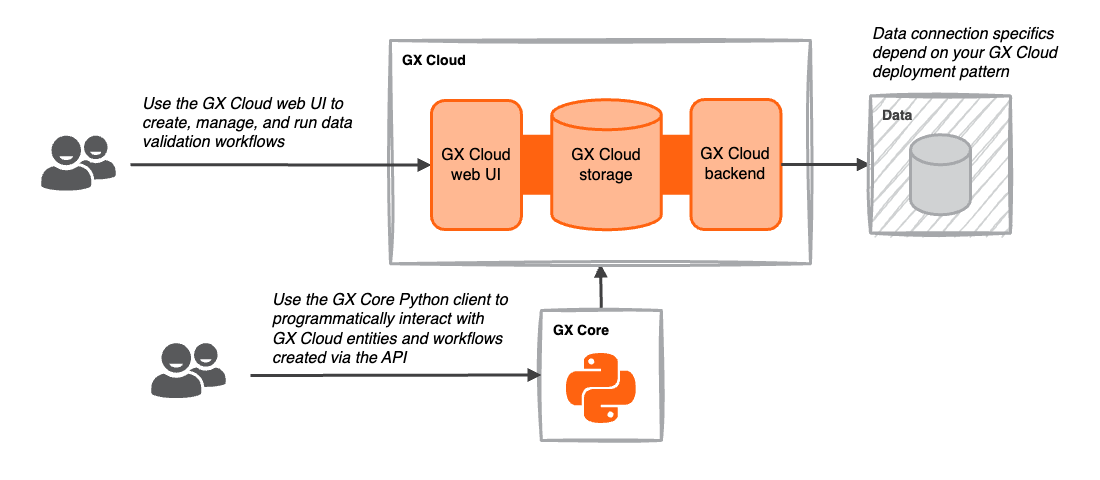
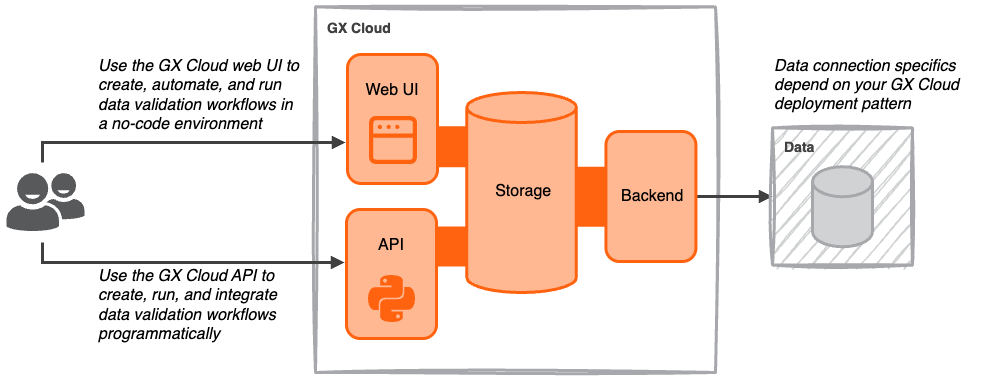
[DOCS] Revise use of the term "API" (#11196)

Pull request: [DOCS] Revise use of the term "API"
Resolves https://greatexpectations.atlassian.net/browse/DOC-1133 according to the guidance linked in that issue

- [X] Description of PR changes above includes a link to [an existing GitHub issue](https://github.com/great-expectations/great_expectations/issues)
- [X] PR title is prefixed with one of: [BUGFIX], [FEATURE], [DOCS], [MAINTENANCE], [CONTRIB], [MINORBUMP]
- [ ] Code is linted - run `invoke lint` (uses `ruff format` + `ruff check`)
- [X] Appropriate tests and docs have been updated

For more information about contributing, visit our [community resources](https://docs.greatexpectations.io/docs/core/introduction/community_resources#contribute-code-or-documentation).

After you submit your PR, keep the page open and **monitor the statuses of the various checks made by our continuous integration process at the bottom of the page. Please fix any issues that come up** and [reach out on Slack](https://greatexpectations.io/slack) if you need help. Thanks for contributing!

diff --git a/docs/docusaurus/docs/cloud/expectations/manage_expectations.md b/docs/docusaurus/docs/cloud/expectations/manage_expectations.md
@@ -235,22 +235,22 @@ If your Data Asset has at least one DATE or DATETIME column, you can define a Ba
 ## GX-managed vs. API-managed Expectations
 
 In GX Cloud, Expectations can be GX-managed or API-managed.
-- GX-managed Expectations are created through the GX Cloud UI.
-- API-managed Expectations are created with the API in a GX Cloud Data Context.
+- GX-managed Expectations are created using the GX Cloud UI.
+- API-managed Expectations are created using the GX Cloud API.
 
-If you have both kinds of Expectations, they will be organized in separate tables on the **Expectations** tab as they have different capabilities in the Cloud UI. 
+If you have both kinds of Expectations, they will be organized in separate tables on the **Expectations** tab as they have different capabilities in the GX Cloud UI. 
 
 Here is a comparison of key characteristics of GX-managed and API-managed Expectations. 
 
 | Characteristic     | GX-managed Expectation                                                                                                                                                                              | API-managed Expectation                                                                                                                                                                                                                                                                                                     |
 |--------------------|-----------------------------------------------------------------------------------------------------------------------------------------------------------------------------------------------------|-----------------------------------------------------------------------------------------------------------------------------------------------------------------------------------------------------------------------------------------------------------------------------------------------------------------------------|
-| Edit               | [Edit parameters](/cloud/expectations/manage_expectations.md#edit-an-expectation) with the GX Cloud UI                                                                                              | [Edit parameters with the API](/reference/api/expectations/Expectation_class.mdx) or the GX Cloud UI                                                                                                                                                                                                                        |
-| Batch              | [Define a Batch](/cloud/expectations/manage_expectations.md#optional-define-a-batch) in the Cloud UI                                                                                                | Define a Batch with the API when connecting to [SQL](/core/connect_to_data/sql_data/sql_data.md#create-a-batch-definition), [filesystem](/core/connect_to_data/filesystem_data/filesystem_data.md#create-a-batch-definition), or [dataframe](/core/connect_to_data/dataframes/dataframes.md#create-a-batch-definition) data |
-| Validate           | [Run a Validation](/docs/cloud/validations/manage_validations.md#run-a-validation) through the Cloud UI or [run a Checkpoint](/core/trigger_actions_based_on_results/run_a_checkpoint.md) with the API | [Create a Validation Definition and run it](/core/run_validations/run_validations.md) with the API                                                                                                                                                                                                                          |
-| Validation Results | [Access results in the Validations tab](/cloud/validations/manage_validations.md#view-validation-run-history) of the Cloud UI                                                                       | [Access results with the API](/core/trigger_actions_based_on_results/choose_a_result_format/choose_a_result_format.md) or in the Validations tab of the Cloud UI                                                                                                                                                            |
-| Schedule           | Keep default schedule or [edit schedule](/cloud/schedules/manage_schedules.md) in the Cloud UI                                                                                                      | Not supported, use an [orchestrator](/cloud/connect/connect_airflow.md) to control recurring validations                                                                                                                                                                                                                    |
-| Expectation Suite  | Automatically organized in a hidden default Expectation Suite                                                                                                                                       | Manually grouped into [custom Expectation Suites](/core/define_expectations/organize_expectation_suites.md) via the API                                                                                                                                                                                                     |
-| Delete             | [Delete Expectation](/docs/cloud/expectations/manage_expectations/#delete-an-expectation) with the Cloud UI                                                                                         | [Delete Expectation with the API](/reference/api/ExpectationSuite_class.mdx#great_expectations.ExpectationSuite.delete_expectation) or the Cloud UI                                                                                                                                                                         |
+| Edit               | [Edit parameters](/cloud/expectations/manage_expectations.md#edit-an-expectation) with the GX Cloud UI                                                                                              | [Edit parameters with the GX Cloud API](/reference/api/expectations/Expectation_class.mdx) or the GX Cloud UI                                                                                                                                                                                                                        |
+| Batch              | [Define a Batch](/cloud/expectations/manage_expectations.md#optional-define-a-batch) in the GX Cloud UI                                                                                                | Define a Batch with the GX Cloud API when connecting to [SQL](/core/connect_to_data/sql_data/sql_data.md#create-a-batch-definition), [filesystem](/core/connect_to_data/filesystem_data/filesystem_data.md#create-a-batch-definition), or [dataframe](/core/connect_to_data/dataframes/dataframes.md#create-a-batch-definition) data |
+| Validate           | [Run a Validation](/docs/cloud/validations/manage_validations.md#run-a-validation) using the GX Cloud UI or [run a Checkpoint](/core/trigger_actions_based_on_results/run_a_checkpoint.md) with the GX Cloud API | [Create a Validation Definition and run it](/core/run_validations/run_validations.md) with the GX Cloud API                                                                                                                                                                                                                          |
+| Validation Results | [Access results in the Validations tab](/cloud/validations/manage_validations.md#view-validation-run-history) of the GX Cloud UI                                                                       | [Access results with the GX Cloud API](/core/trigger_actions_based_on_results/choose_a_result_format/choose_a_result_format.md) or in the Validations tab of the GX Cloud UI                                                                                                                                                            |
+| Schedule           | Keep default schedule or [edit schedule](/cloud/schedules/manage_schedules.md) in the GX Cloud UI                                                                                                      | Not supported, use an [orchestrator](/cloud/connect/connect_airflow.md) to control recurring validations                                                                                                                                                                                                                    |
+| Expectation Suite  | Automatically organized in a hidden default Expectation Suite                                                                                                                                       | Manually grouped into [custom Expectation Suites](/core/define_expectations/organize_expectation_suites.md) via the GX Cloud API                                                                                                                                                                                                     |
+| Delete             | [Delete Expectation](/docs/cloud/expectations/manage_expectations/#delete-an-expectation) with the GX Cloud UI                                                                                         | [Delete Expectation with the GX Cloud API](/reference/api/ExpectationSuite_class.mdx#great_expectations.ExpectationSuite.delete_expectation) or the GX Cloud UI                                                                                                                                                                         |
 
 :::note Hidden resources for GX-managed Expectations
 To support GX-managed Expectations, we create resources that you typically won't directly interact with. For example, we create a GX-managed Expectation Suite that we use to organize your Expectations. For some workflows you may need to work with these hidden resources, for example, you may need to [find the name of an automatically created Checkpoint](/cloud/connect/connect_airflow.md#create-a-dag-file-for-your-gx-cloud-checkpoint). But, typically you can ignore the existence of these hidden resources. 

diff --git a/docs/docusaurus/docs/cloud/overview/gx_cloud_overview.md b/docs/docusaurus/docs/cloud/overview/gx_cloud_overview.md
@@ -58,9 +58,9 @@ There are a variety of GX Cloud features that support additional enhancements to
 
 ## GX Cloud architecture
 
-GX Cloud architecture comprises a frontend web UI, storage for entity configuration and metadata, a backend application, and a Python client.
+GX Cloud architecture comprises a frontend web UI, storage for entity configuration and metadata, a backend application, and a Python API.
 
-![GX Cloud architecture](./overview_images/gx_cloud_architecture.png)
+![You interact using the UI, API, or both. How GX Cloud connects to your data depends on your deployment pattern.](./overview_images/gx_cloud_architecture.png)
 
 * **GX Cloud frontend web UI**. Enables you to manage and validate your organization's data quality without running code and provides shared visibility into your organization's Validation Results history.
 
@@ -68,4 +68,4 @@ GX Cloud architecture comprises a frontend web UI, storage for entity configurat
 
 * **GX Cloud backend application**. Contains the necessary logic and compute to connect to data and run queries. The specifics of how the GX Cloud backend connects to your data is described in [Deployment patterns](/cloud/deploy/deployment_patterns.md).
 
-* **GX Core Python client**. Enables you to interact programmatically with GX Cloud entities and workflows created via the API. The [GX Core Python client](/core/introduction/introduction.mdx) can complement and extend your web UI-created workflows.
+* **GX Cloud API**. Enables you to [interact programmatically](/reference/index.md) with GX Cloud entities and workflows using Python scripts. 

diff --git a/README.md b/README.md
@@ -57,10 +57,10 @@ They are listed in the order in which GX is prioritizing the support issues:
 ## Contribute
 We deeply value the contributions of our community. We're now accepting PRs for bug fixes.
 
-To ensure the long-term quality of the GX Core codebase, we're not yet ready to accept feature contributions to the parts of the codebase that don't have clear APIs for extensions. We're actively working to increase the surface area for contributions. Thank you for being a crucial part of GX Core!
+To ensure the long-term quality of the GX Core codebase, we're not yet ready to accept feature contributions to the parts of the codebase that don't have clear interfaces for extensions. We're actively working to increase the surface area for contributions. Thank you for being a crucial part of GX Core!
 
 ### Levels of contribution readiness
-🟢 Ready. Have a clear and public API for extensions.
+🟢 Ready. Have a clear and public interface for extensions.
 
 🟡 Partially ready. Case-by-case.
 

diff --git a/contrib/capitalone_dataprofiler_expectations/README.md b/contrib/capitalone_dataprofiler_expectations/README.md
@@ -26,7 +26,7 @@ print(json.dumps(readable_report, indent=4))
 ```
 Note: The Data Profiler comes with a pre-trained deep learning model, used to efficiently identify **sensitive data** (PII / NPI). If desired, it's easy to add new entities to the existing pre-trained model or insert an entire new pipeline for entity recognition.
 
-For API documentation, visit the [documentation page](https://capitalone.github.io/DataProfiler/).
+For more information, visit the [documentation page](https://capitalone.github.io/DataProfiler/).
 
 If you have suggestions or find a bug, [please open an issue](https://github.com/capitalone/dataprofiler/issues/new/choose).
 
@@ -489,7 +489,7 @@ profile = dp.Profiler(text_data, profiler_type='unstructured')
 report = profile.report(report_options={"output_format": "pretty"})
 print(json.dumps(report, indent=4))
 ```
-**Visit the [documentation page](https://capitalone.github.io/DataProfiler/) for additional Examples and API details**
+**Visit the [documentation page](https://capitalone.github.io/DataProfiler/) for additional examples and details**
 
 
 # References

diff --git a/docs/docusaurus/docs/cloud/validations/manage_validations.md b/docs/docusaurus/docs/cloud/validations/manage_validations.md
@@ -4,10 +4,10 @@ title: 'Manage Validations'
 description: Create and manage Validations in GX Cloud.
 ---
 
-You can manually run a Validation through the GX Cloud UI. This is useful for exploring your data and fine-tuning your Expectations. To run recurring Validations, use a [schedule](/docs/cloud/schedules/manage_schedules.md) or an [orchestrator](/cloud/connect/connect_airflow.md).
+You can manually run a Validation using the GX Cloud UI. This is useful for exploring your data and fine-tuning your Expectations. To run recurring Validations, use a [schedule](/docs/cloud/schedules/manage_schedules.md) or an [orchestrator](/cloud/connect/connect_airflow.md).
 
 :::tip Manual validations are for GX-managed Expectations only
-To run a validation for an [API-managed Expectation](/cloud/expectations/manage_expectations.md#gx-managed-vs-api-managed-expectations), create and run a [Validation Definition](/core/run_validations/create_a_validation_definition.md).
+To run a validation for an [API-managed Expectation](/cloud/expectations/manage_expectations.md#gx-managed-vs-api-managed-expectations), use the GX Cloud UI to generate the necessary code. For the Data Asset of interest, go to the **Validations** tab, select the **Expectation Suite** that contains your API-managed Expectation, click the code snippet icon next to the **Validate** button, and then click **Generate snippet**.
 :::
 
 <!-- [//]: # (TODO: To learn more about Validations, see Validator.) -->

diff --git a/docs/docusaurus/docs/core/connect_to_data/filesystem_data/_create_a_data_asset/_abs/_tab-file_data_asset.md b/docs/docusaurus/docs/core/connect_to_data/filesystem_data/_create_a_data_asset/_abs/_tab-file_data_asset.md
@@ -50,8 +50,8 @@ import PrereqDataContext from '../../../../_core_components/prerequisites/_preco
 
    A new Data Asset is created and added to a Data Source simultaneously.  The file format that the Data Asset can read is determined by the method used when the Data Asset is added to the Data Source.
 
-   - To see the file formats supported by a pandas File Data Source, reference the `.add_*_asset(...)` methods in [the API documentation for a `PandasFilesystemDatasource`](/reference/api/datasource/fluent/PandasFilesystemDatasource_class.mdx).
-   - To see the file formats supported by a Spark File Data Source, reference the `.add_*_asset(...)` methods in [the API documentation for a `SparkFilesystemDatasource`](/reference/api/datasource/fluent/SparkFilesystemDatasource_class.mdx).
+   - To see the file formats supported by a pandas File Data Source, refer to the `.add_*_asset(...)` methods in the [`PandasFilesystemDatasource` reference page](/reference/api/datasource/fluent/PandasFilesystemDatasource_class.mdx).
+   - To see the file formats supported by a Spark File Data Source, refer to the `.add_*_asset(...)` methods in the [`SparkFilesystemDatasource` reference page](/reference/api/datasource/fluent/SparkFilesystemDatasource_class.mdx).
 
    The following example creates a Data Asset that can read `.csv` file data:
 

diff --git a/docs/docusaurus/docs/core/connect_to_data/filesystem_data/_create_a_data_asset/_gcs/_tab-file_data_asset.md b/docs/docusaurus/docs/core/connect_to_data/filesystem_data/_create_a_data_asset/_gcs/_tab-file_data_asset.md
@@ -51,8 +51,8 @@ import PrereqDataContext from '../../../../_core_components/prerequisites/_preco
 
    A new Data Asset is created and added to a Data Source simultaneously.  The file format that the Data Asset can read is determined by the method used when the Data Asset is added to the Data Source.
 
-   - To see the file formats supported by a pandas File Data Source, reference the `.add_*_asset(...)` methods in [the API documentation for a `PandasFilesystemDatasource`](/reference/api/datasource/fluent/PandasFilesystemDatasource_class.mdx).
-   - To see the file formats supported by a Spark File Data Source, reference the `.add_*_asset(...)` methods in [the API documentation for a `SparkFilesystemDatasource`](/reference/api/datasource/fluent/SparkFilesystemDatasource_class.mdx).
+   - To see the file formats supported by a pandas File Data Source, refer to the `.add_*_asset(...)` methods in the [`PandasFilesystemDatasource` reference page](/reference/api/datasource/fluent/PandasFilesystemDatasource_class.mdx).
+   - To see the file formats supported by a Spark File Data Source, refer to the `.add_*_asset(...)` methods in the [`SparkFilesystemDatasource` reference page](/reference/api/datasource/fluent/SparkFilesystemDatasource_class.mdx).
 
    The following example creates a Data Asset that can read `.csv` file data:
 

diff --git a/docs/docusaurus/docs/core/connect_to_data/filesystem_data/_create_a_data_asset/_local_or_networked/_tab-file_data_asset.md b/docs/docusaurus/docs/core/connect_to_data/filesystem_data/_create_a_data_asset/_local_or_networked/_tab-file_data_asset.md
@@ -48,8 +48,8 @@ import PrereqSparkFilesystemDataSource from '../../../../_core_components/prereq
 
    A new Data Asset is created and added to a Data Source simultaneously.  The file format that the Data Asset can read is determined by the method used when the Data Asset is added to the Data Source.
 
-   - To see the file formats supported by a pandas File Data Source, reference the `.add_*_asset(...)` methods in [the API documentation for a `PandasFilesystemDatasource`](/reference/api/datasource/fluent/PandasFilesystemDatasource_class.mdx).
-   - To see the file formats supported by a Spark File Data Source, reference the `.add_*_asset(...)` methods in [the API documentation for a `SparkFilesystemDatasource`](/reference/api/datasource/fluent/SparkFilesystemDatasource_class.mdx).
+   - To see the file formats supported by a pandas File Data Source, refer to the `.add_*_asset(...)` methods in the [`PandasFilesystemDatasource` reference page](/reference/api/datasource/fluent/PandasFilesystemDatasource_class.mdx).
+   - To see the file formats supported by a Spark File Data Source, refer to the `.add_*_asset(...)` methods in the [`SparkFilesystemDatasource` reference page](/reference/api/datasource/fluent/SparkFilesystemDatasource_class.mdx).
 
    The following example creates a Data Asset that can read `.csv` file data:
 

diff --git a/docs/docusaurus/docs/core/connect_to_data/filesystem_data/_create_a_data_asset/_s3/_tab-file_data_asset.md b/docs/docusaurus/docs/core/connect_to_data/filesystem_data/_create_a_data_asset/_s3/_tab-file_data_asset.md
@@ -48,8 +48,8 @@ import PrereqDataContext from '../../../../_core_components/prerequisites/_preco
 
    A new Data Asset is created and added to a Data Source simultaneously.  The file format that the Data Asset can read is determined by the method used when the Data Asset is added to the Data Source.
 
-   - To see the file formats supported by a pandas File Data Source, reference the `.add_*_asset(...)` methods in [the API documentation for a `PandasFilesystemDatasource`](/reference/api/datasource/fluent/PandasFilesystemDatasource_class.mdx).
-   - To see the file formats supported by a Spark File Data Source, reference the `.add_*_asset(...)` methods in [the API documentation for a `SparkFilesystemDatasource`](/reference/api/datasource/fluent/SparkFilesystemDatasource_class.mdx).
+   - To see the file formats supported by a pandas File Data Source, refer to the `.add_*_asset(...)` methods in the [`PandasFilesystemDatasource` reference page](/reference/api/datasource/fluent/PandasFilesystemDatasource_class.mdx).
+   - To see the file formats supported by a Spark File Data Source, refer to the `.add_*_asset(...)` methods in the [`SparkFilesystemDatasource` reference page](/reference/api/datasource/fluent/SparkFilesystemDatasource_class.mdx).
 
    The following example creates a Data Asset that can read `.csv` file data:
 

diff --git a/docs/docusaurus/docs/core/connect_to_data/filesystem_data/filesystem_data.md b/docs/docusaurus/docs/core/connect_to_data/filesystem_data/filesystem_data.md
@@ -29,8 +29,4 @@ To connect to your Filesystem data, you first create a Data Source which tells G
 
 A Batch Definition allows you to request all the records from a Data Asset or a subset based on the contents of a date and time field.
 
-:::note For API-managed Expectations only
-If you use GX Cloud and GX Core together, note that Batch Definitions you create with the API apply to [API-managed Expectations](/cloud/expectations/manage_expectations.md#gx-managed-vs-api-managed-expectations) only.
-:::
-
 <CreateABatchDefinition/>

diff --git a/docs/docusaurus/docs/core/connect_to_data/sql_data/sql_data.md b/docs/docusaurus/docs/core/connect_to_data/sql_data/sql_data.md
@@ -45,8 +45,4 @@ Data Sources tell GX where your data is located and how to connect to it.  With 
 
 A Batch Definition allows you to request all the records from a Data Asset or a subset based on the contents of a date and time field.
 
-:::note For API-managed Expectations only
-If you use GX Cloud and GX Core together, note that Batch Definitions you create with the API apply to [API-managed Expectations](/cloud/expectations/manage_expectations.md#gx-managed-vs-api-managed-expectations) only.
-:::
-
 <CreateBatchDefinition/>

diff --git a/docs/docusaurus/docs/core/define_expectations/organize_expectation_suites.md b/docs/docusaurus/docs/core/define_expectations/organize_expectation_suites.md
@@ -12,10 +12,6 @@ import PrereqPreconfiguredDataSourceAndAsset from '../_core_components/prerequis
 
 An Expectation Suite contains a group of Expectations that describe the same set of data.  Combining all the Expectations that you apply to a given set of data into an Expectation Suite allows you to evaluate them as a group, rather than individually.  All of the Expectations that you use to validate your data in production workflows should be grouped into Expectation Suites.
 
-:::note For API-managed Expectations only
-If you use GX Cloud and GX Core together, note that only [API-managed Expectations](/cloud/expectations/manage_expectations.md#gx-managed-vs-api-managed-expectations) can be grouped into custom Expectation Suites.
-:::
-
 ## Prerequisites {#prerequisites-expectation-suites}
 
 - <PrereqPythonInstalled/>.